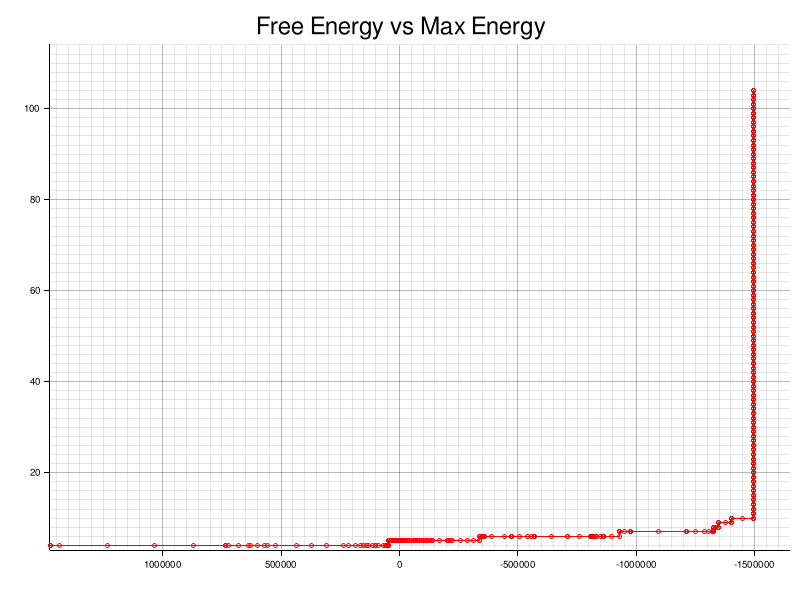
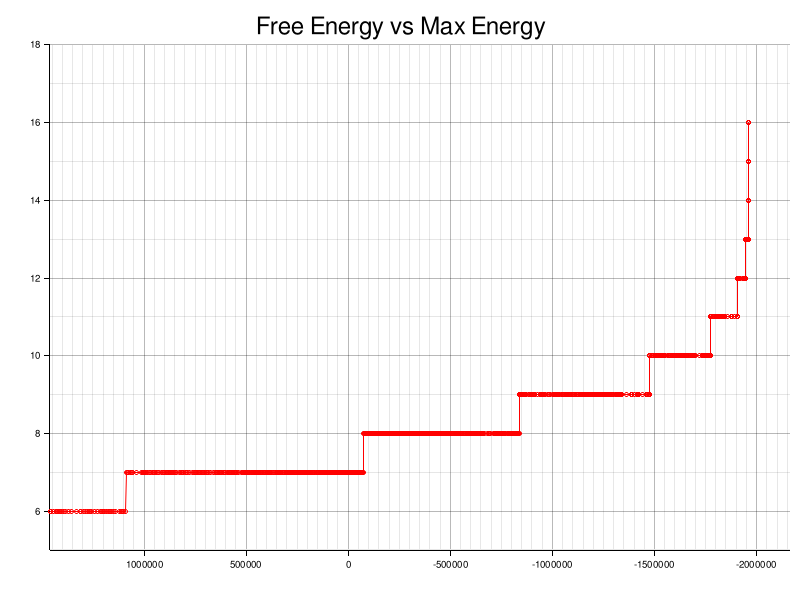
tested on complex 6d function and still appears to work

Changed region(s): [[0.0312, 0.09, 0.9688, 0.96], [0.0312, 0.78, 0.0625, 0.81], [0.0312, 0.06, 0.0625, 0.09]]

diff --git a/rust/complex-ns/src/main.rs b/rust/complex-ns/src/main.rs
@@ -18,16 +18,30 @@ fn energy_function_complex(state: Vec<f64>) -> f64 {
     return state[0].sin() - (2.0 * state[1].powi(3));
 }
 
+fn energy_function_6d_complex(state: Vec<f64>) -> f64 {
+    return state[0].sin() - (6.1 * state[1].powi(2)) + (1.1 * state[2]).powi(3) - (2.8 * state[3])
+        + (4.1 * state[4].cos())
+        + (state[5].powi(2) * 0.3);
+}
+
 fn main() {
     let mut rng = rand::thread_rng();
 
     let config = NSConfig::new(
         energy_function_complex,
-        states_populate(2, 100, -100.0..100.0, &mut rng),
+        states_populate(6, 1000, -100.0..100.0, &mut rng),
         10000,
         false,
-        walkers::WalkerConfig::new(0.0001, 3),
+        walkers::WalkerConfig::new(0.0001, 4),
     );
+
+    // let config = nsconfig::new(
+    //     energy_function_complex,
+    //     states_populate(2, 100, -100.0..100.0, &mut rng),
+    //     10000,
+    //     false,
+    //     walkers::walkerconfig::new(0.0001, 3),
+    // );
 
     // let config = NSConfig::new(
     //     energy_function_1d,
@@ -43,4 +57,5 @@ fn main() {
 
     let pp_result = post_processing::post_process(ns_result);
     pp_result.graph_free_energies();
+    pp_result.graph_volume();
 }
